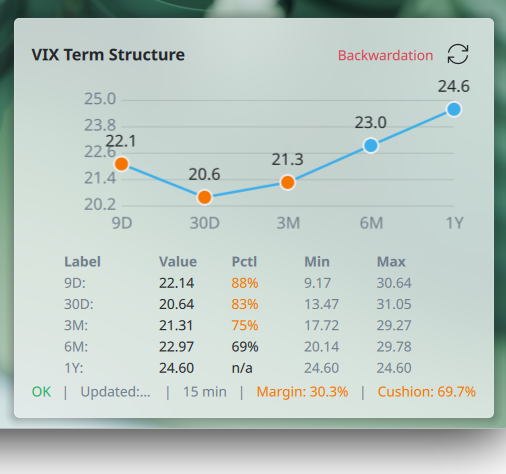
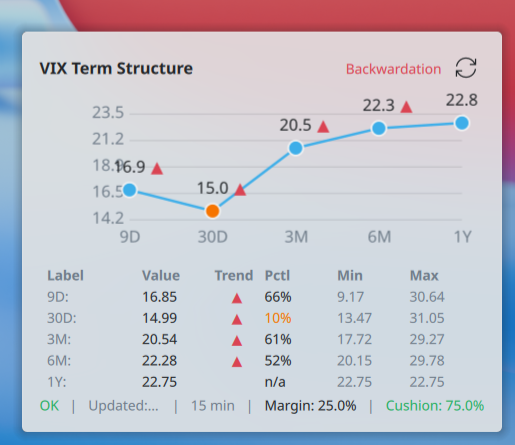
docs: refresh screenshot with trend arrows and percentiles
The old screenshot predated the trend indicator, so it showed neither the
Trend column nor the arrows on the chart. Recapture from plasmoidviewer
with live VIX data and drop the note that flagged it as outdated.

Claude-Session: https://claude.ai/code/session_017m339Eyj6g6WoEnE2T7cQw

diff --git a/README.md b/README.md
@@ -37,9 +37,7 @@ The optional table below the chart has the columns `Label | Value | Trend | Pctl
 
 A status bar below the chart also shows a **Margin** and **Cushion** readout derived from the VIX 30D value (see [Margin & Cushion guidance](#margin--cushion-guidance)). These are risk-management guidelines only — **not financial advice**.
 
-<img width="506" alt="VIX Term Structure widget: term-structure chart, value table with percentile ranks and 1Y min/max, and the Margin/Cushion status bar" src="docs/screenshot.png" />
-
-<sub>The screenshot predates the trend arrows, so it does not show the `Trend` column.</sub>
+<img width="515" alt="VIX Term Structure widget: term-structure chart with trend arrows, value table with trend, percentile ranks and 1Y min/max, and the Margin/Cushion status bar" src="docs/screenshot.png" />
 
 
 ## Requirements
